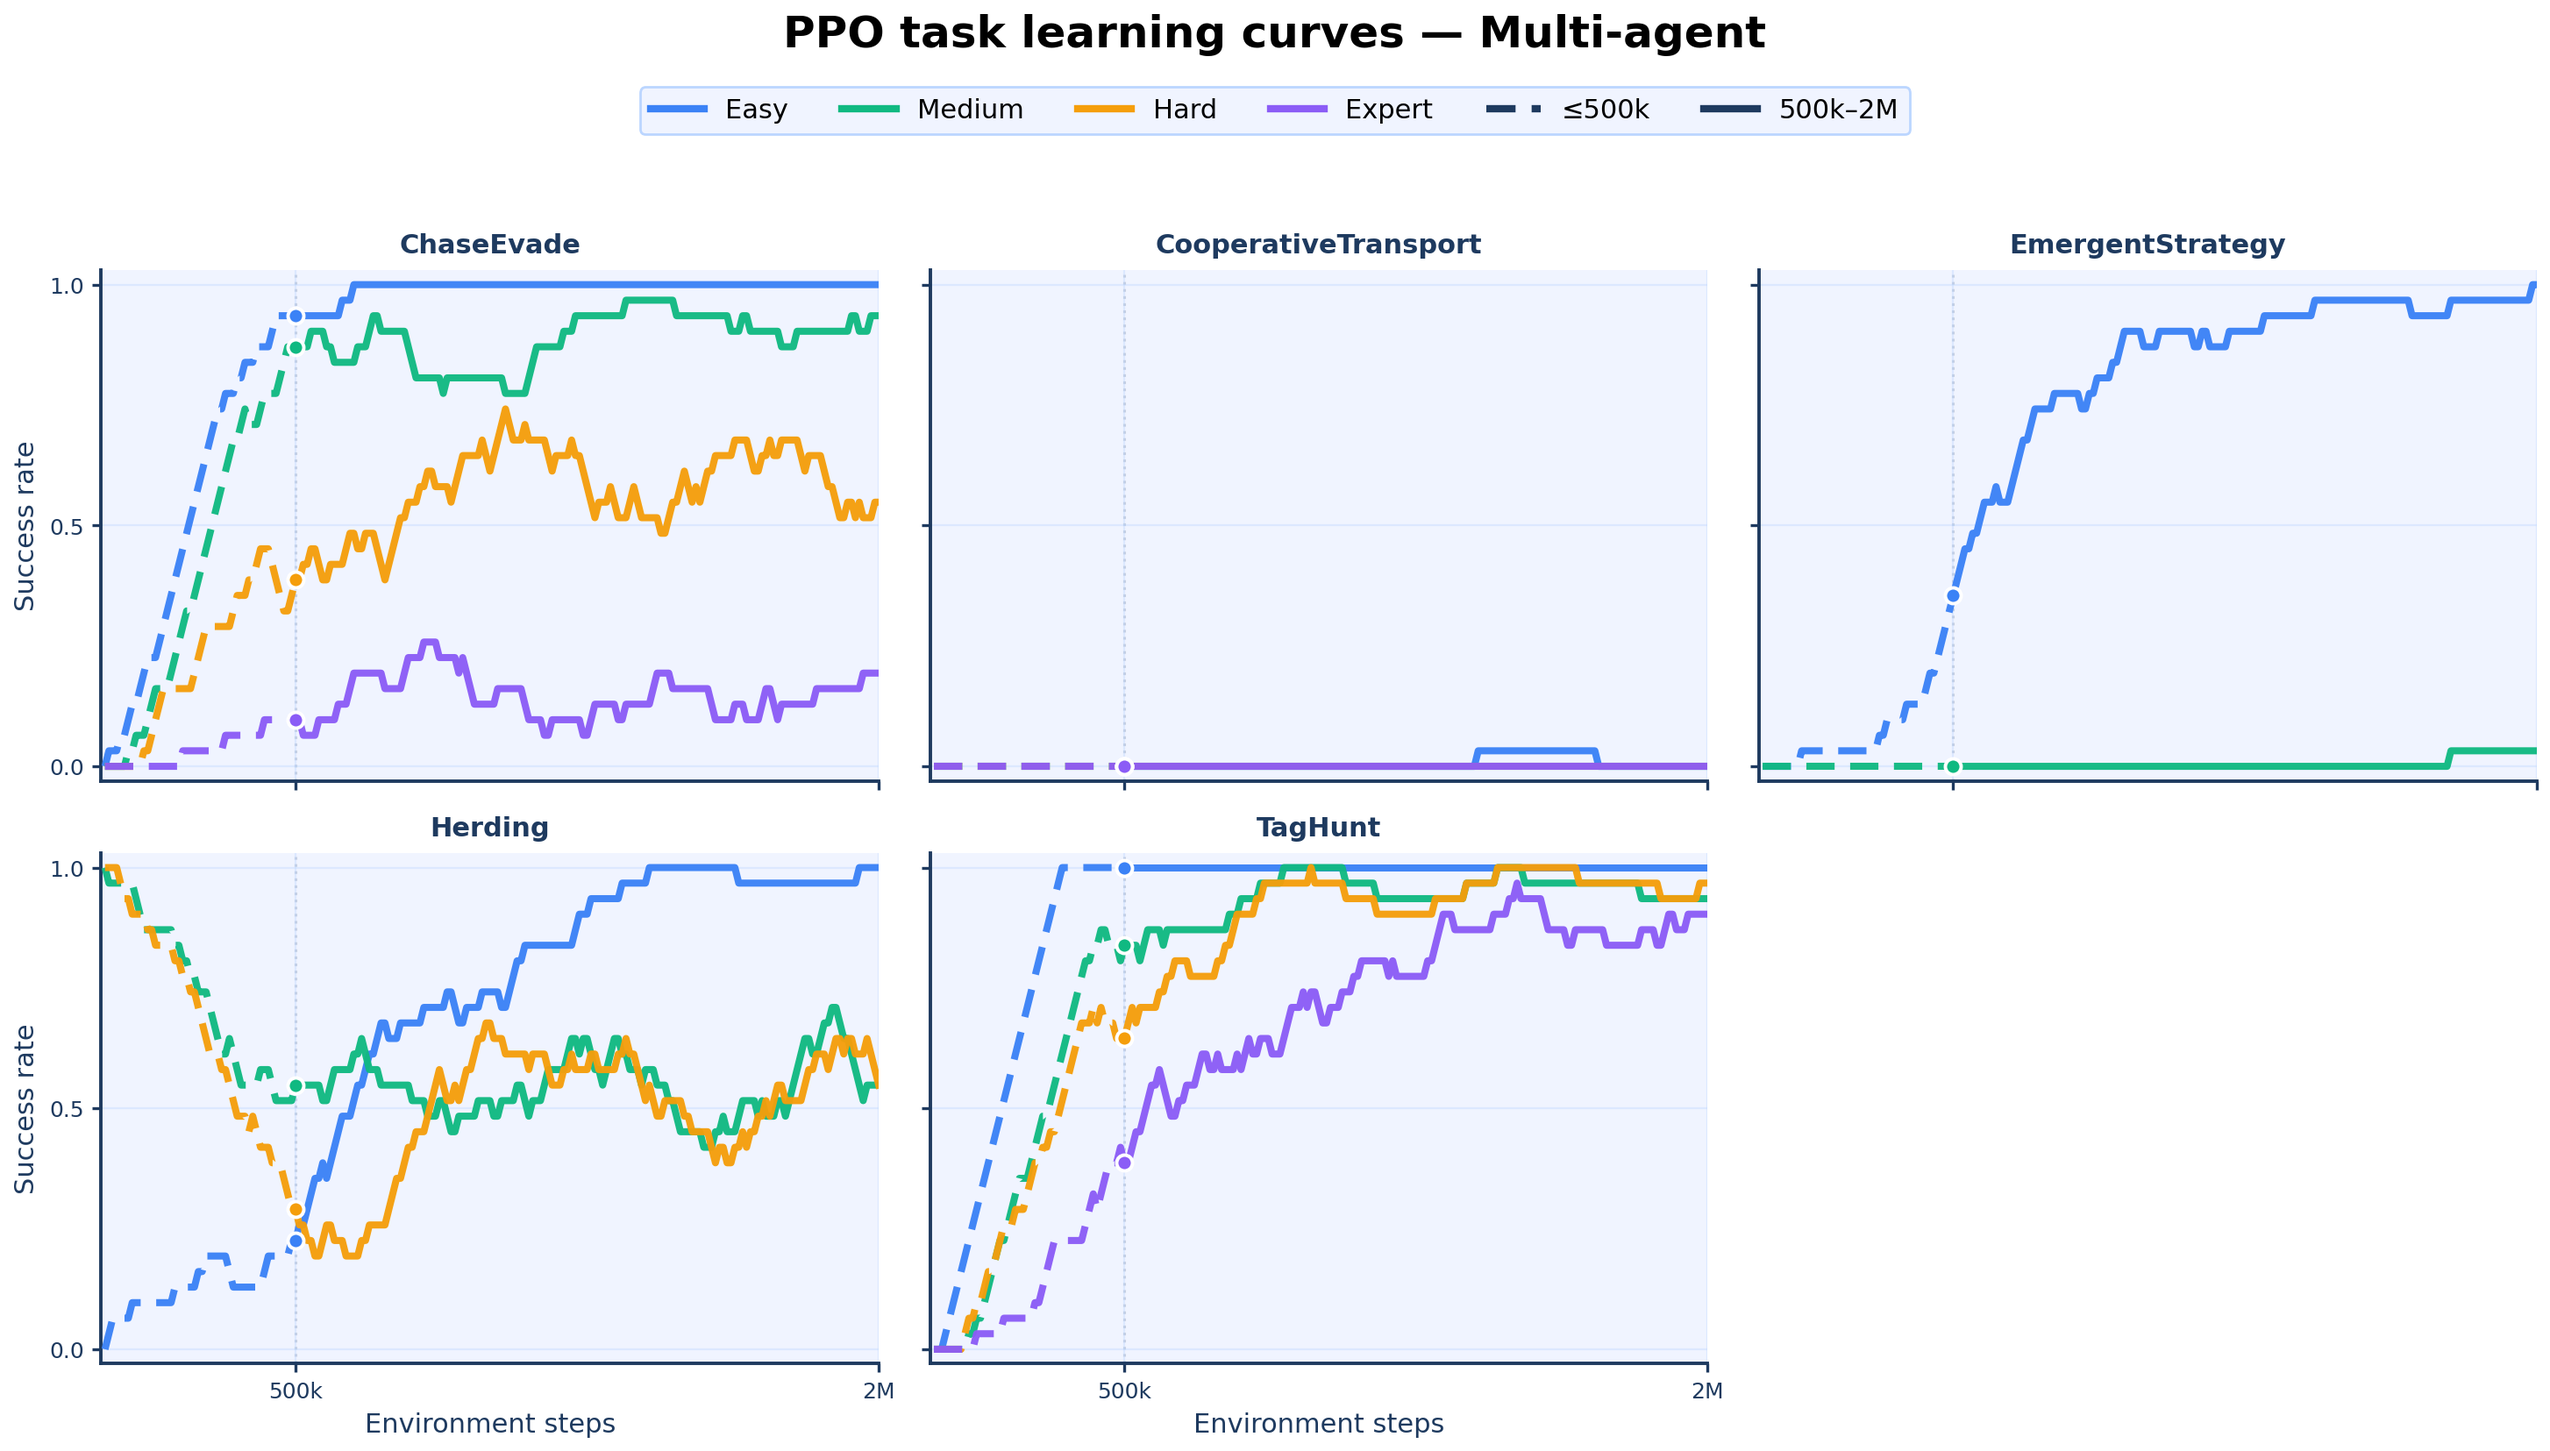
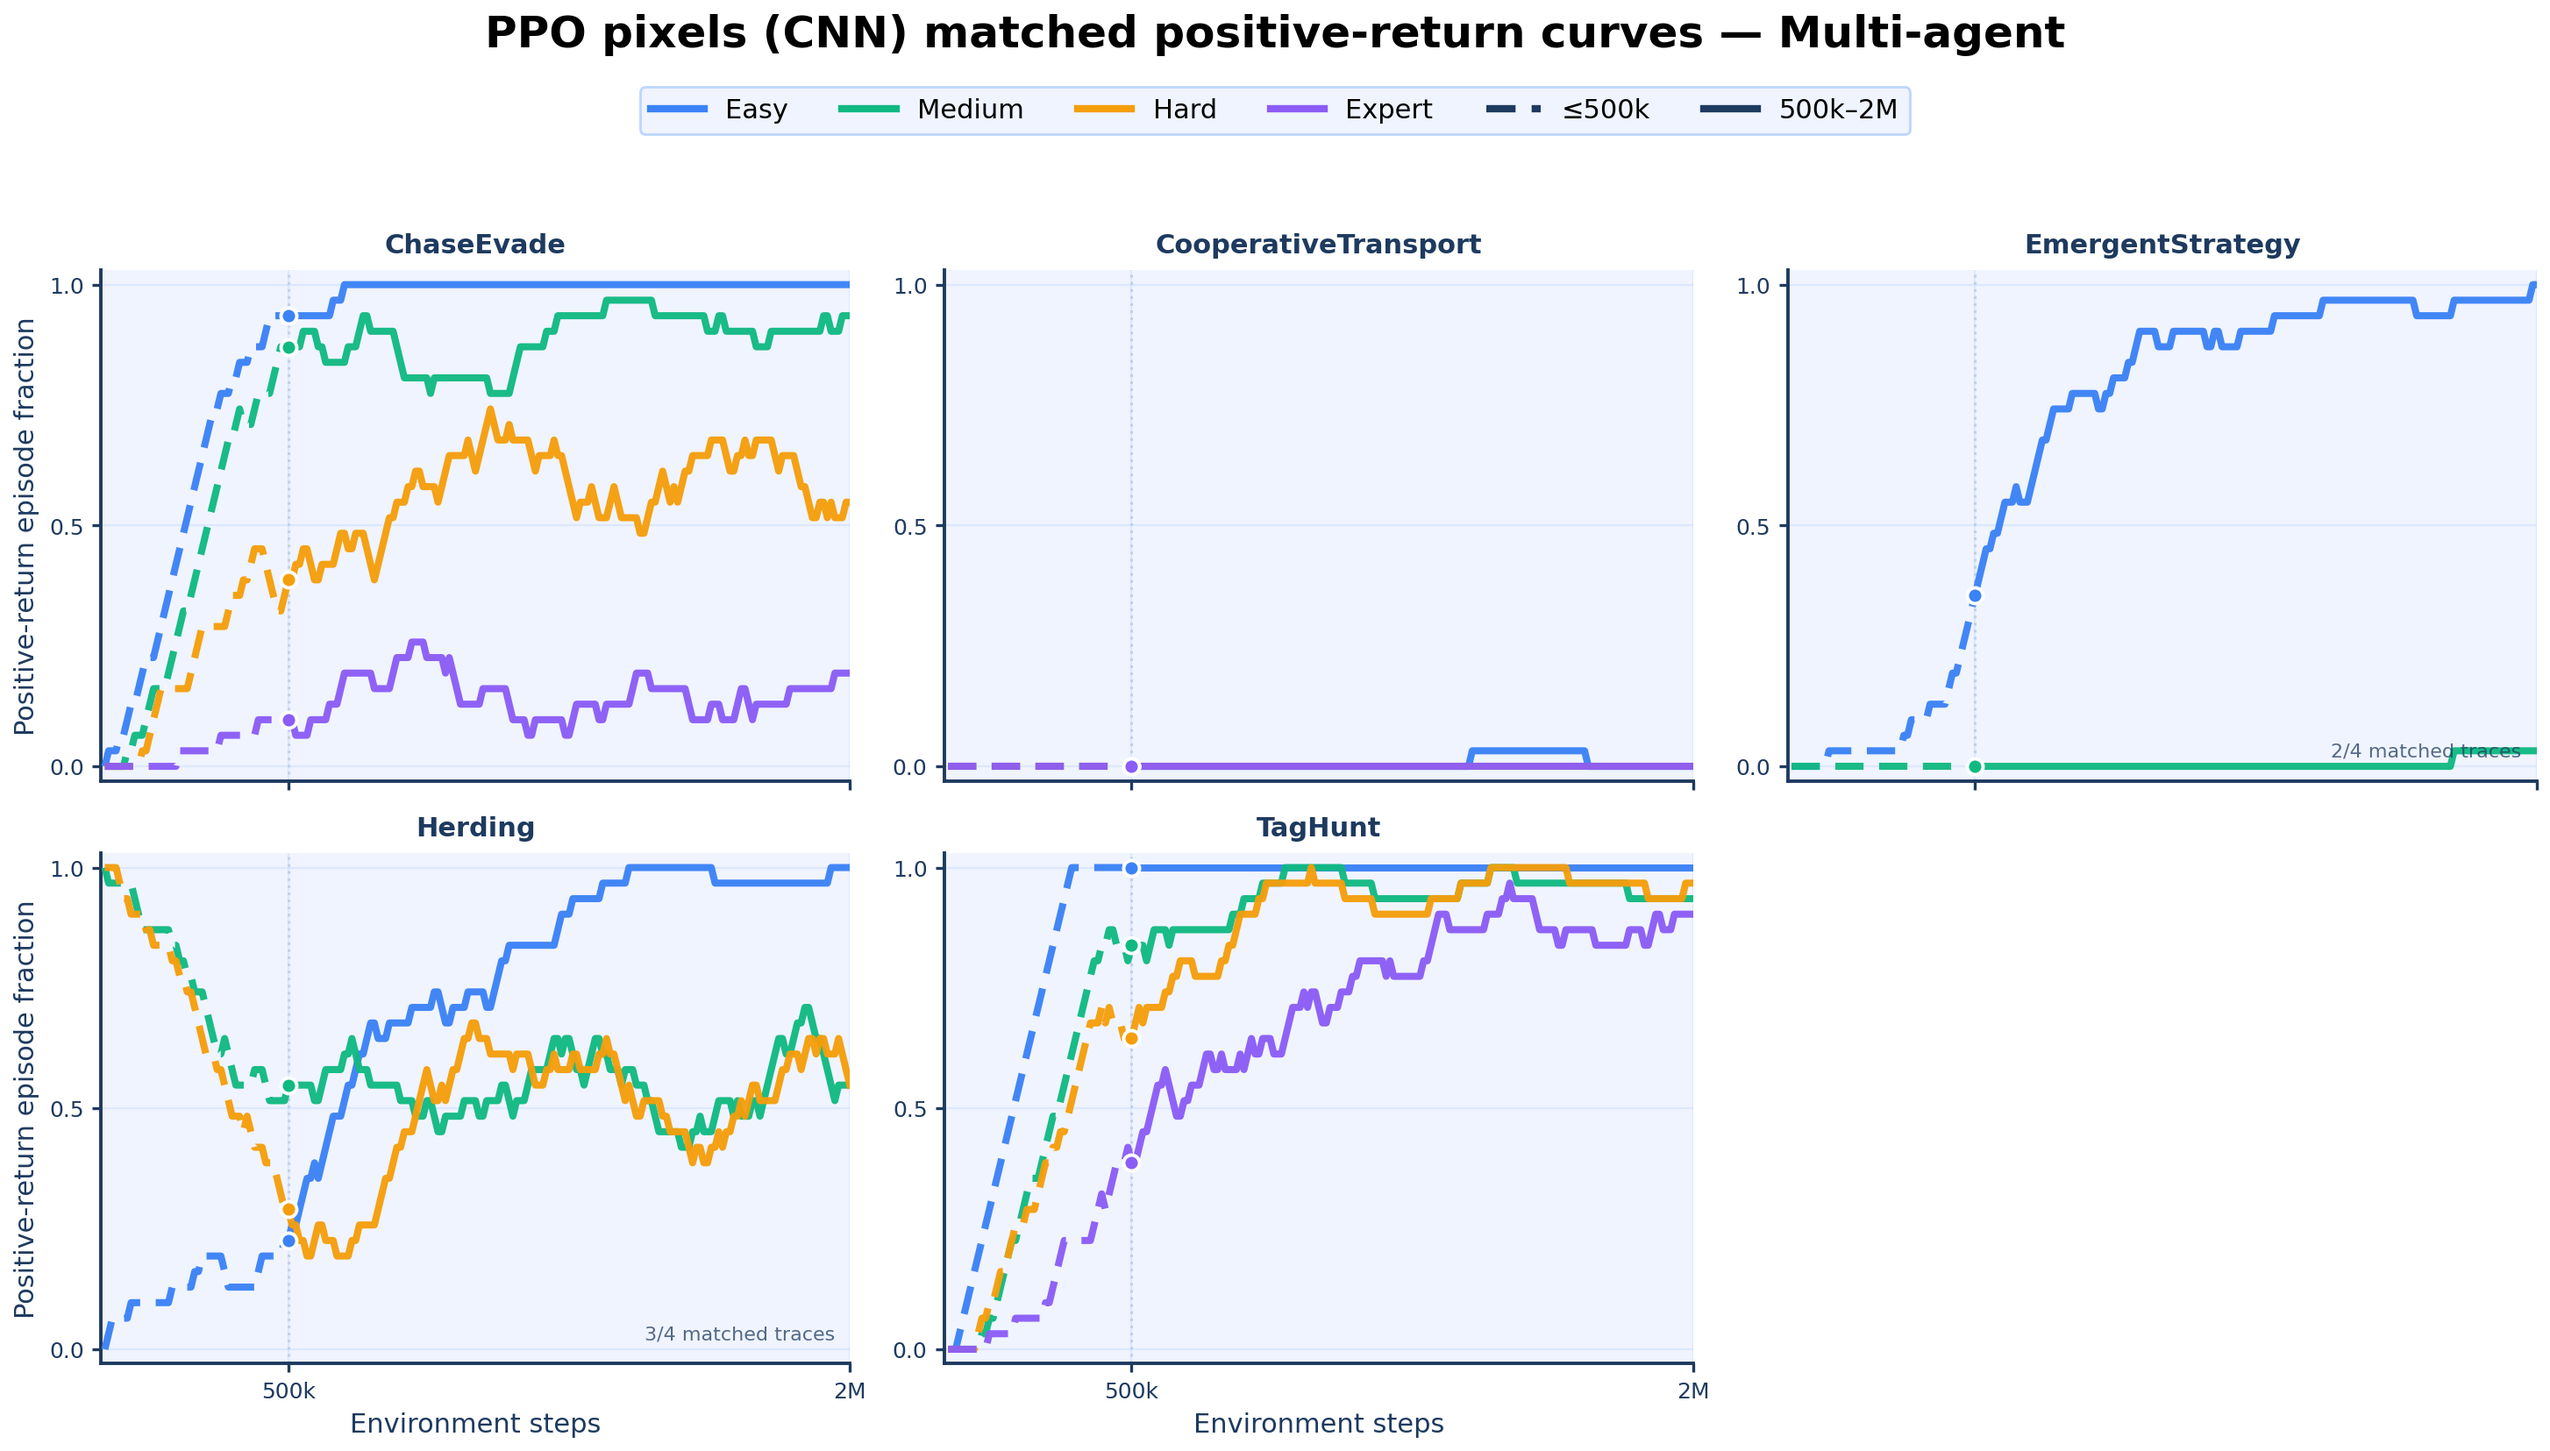
Add PPO observation ablation results

diff --git a/additional_results/README.md b/additional_results/README.md
@@ -1,56 +1,141 @@
 # Additional results
 
-This directory collects the figures and compact tables discussed in the author
-response: SFT training and evaluation, PPO learning curves, checkpoint
-aggregates, and difficulty-scaling results.
+This directory contains compact, machine-readable results and figures added for
+the author response: supervised fine-tuning, PPO observation ablations, PPO
+learning diagnostics, and difficulty scaling.
 
-## Files
+## PPO observation ablation
 
-- [SFT training and evaluation](sft_results_combined.png).
-- PPO task-grid learning curves:
+We repeat the single-task dense-reward PPO protocol with four synchronized
+observation paths. Each task-difficulty pair uses a separate policy. Task
+instances, reward, PPO optimization hyperparameters, 2M environment-step
+budget, evaluation cadence, checkpoint cadence, and deterministic 25-episode
+final-evaluation protocol are held fixed. Every input uses four consecutive
+observations.
+
+Only the observation-compatible input path changes:
+
+- pixels: 84x84 grayscale with a CNN;
+- exposed grid state: the returned `terrain`, `objects`, `agents`, and
+  `metadata` grid layers, flattened for an MLP;
+- ASCII: padded byte IDs with a learned byte embedding and 2D CNN;
+- natural language: padded byte IDs with a learned byte embedding and 1D CNN.
+
+The grid vector uses only visibility-filtered arrays returned by the
+`state_dict` observation. It excludes hidden internal cells, task
+configuration, annotations, and valid-action masks. The text encoders are
+trained from scratch and add no pretrained language knowledge. Because the
+compatible neural encoder necessarily changes, this comparison measures each
+declared observation-plus-encoder setup rather than pure information content
+in isolation.
+
+### Exact final success by category
+
+| Observation | Overall | Navigation | Planning | Reasoning | Memory | Generalization | Multi-agent |
+|---|---:|---:|---:|---:|---:|---:|---:|
+| PPO, pixels (CNN, dense, 2M) | .196 | .225 | .294 | .010 | .280 | .167 | .222 |
+| PPO, grid-state vector (MLP, dense, 2M) | .102 | .110 | .064 | .086 | .083 | .113 | .194 |
+| PPO, ASCII (byte CNN, dense, 2M) | .192 | .211 | .270 | .085 | .233 | .133 | .194 |
+| PPO, natural language (byte CNN, dense, 2M) | .188 | .199 | .303 | .034 | .250 | .120 | .204 |
+
+### Exact final success by difficulty
+
+| Observation | Easy | Medium | Hard | Expert |
+|---|---:|---:|---:|---:|
+| PPO, pixels (CNN, dense, 2M) | .486 | .176 | .078 | .044 |
+| PPO, grid-state vector (MLP, dense, 2M) | .183 | .121 | .070 | .036 |
+| PPO, ASCII (byte CNN, dense, 2M) | .394 | .211 | .107 | .056 |
+| PPO, natural language (byte CNN, dense, 2M) | .378 | .219 | .072 | .083 |
+
+The tables use cell-balanced final success. Every modality contains all 148
+task-difficulty cells. The three new modalities store the exact 25 boolean
+success flags, returns, and episode lengths for every cell; the historical
+pixel run stores the exact aggregate computed from `info["success"]`. Dense
+return is never converted into final success.
+
+Machine-readable sources:
+[category table](ppo_observation_ablation_by_category.csv) and
+[difficulty table](ppo_observation_ablation_by_difficulty.csv).
+
+The result is deliberately nuanced. Pixels, ASCII, and natural language are
+close overall, while the plain grid-vector MLP is weaker. Category rankings
+still change materially: natural language is strongest on the planning group,
+the grid vector and ASCII substantially improve over pixels on the reasoning
+group, and pixels remain strongest on navigation and memory. Observation and
+compatible encoder therefore matter; the broader cross-paradigm table should
+not be read as an input-independent ranking.
+
+## PPO learning diagnostics
+
+The periodic evaluator retained episode returns but not exact success flags.
+Consequently, the curves and checkpoint table below report the **positive-return
+episode fraction**, not exact success. They use the exact intersection of 126
+available task-difficulty traces for all four modalities, a 31-point trailing
+mean, and a fixed 0–1 vertical scale.
+
+| Observation | 500k | 1M | 1.5M | 2M |
+|---|---:|---:|---:|---:|
+| PPO, pixels (CNN, dense, 2M) | .243 | .329 | .377 | .393 |
+| PPO, grid-state vector (MLP, dense, 2M) | .193 | .208 | .214 | .220 |
+| PPO, ASCII (byte CNN, dense, 2M) | .162 | .303 | .336 | .369 |
+| PPO, natural language (byte CNN, dense, 2M) | .269 | .342 | .364 | .364 |
+
+The checkpoint average follows the original pixel convention: difficulties
+available for a task are averaged first, then the 37 task means are averaged
+equally. Source tables:
+[compact checkpoints](ppo_observation_positive_return_by_checkpoint.csv) and
+[difficulty-detail checkpoints](ppo_observation_positive_return_checkpoint_summary.csv).
+
+Matched category-curve grids:
+
+- Pixels:
   [navigation](ppo_navigation_task_learning_curves.png),
   [planning](ppo_planning_task_learning_curves.png),
   [reasoning](ppo_reasoning_task_learning_curves.png),
   [memory](ppo_memory_task_learning_curves.png),
   [generalization](ppo_generalization_task_learning_curves.png), and
   [multi-agent](ppo_multi_agent_task_learning_curves.png).
-- Source tables:
-  [SFT evaluation](sft_evaluation_summary.csv),
-  [PPO checkpoints](ppo_checkpoint_summary.csv), and
-  [difficulty scaling](difficulty_scaling_summary.csv).
+- Grid-state vector:
+  [navigation](ppo_vector_navigation_matched_task_positive_return_curves.png),
+  [planning](ppo_vector_planning_matched_task_positive_return_curves.png),
+  [reasoning](ppo_vector_reasoning_matched_task_positive_return_curves.png),
+  [memory](ppo_vector_memory_matched_task_positive_return_curves.png),
+  [generalization](ppo_vector_generalization_matched_task_positive_return_curves.png), and
+  [multi-agent](ppo_vector_multi_agent_matched_task_positive_return_curves.png).
+- ASCII:
+  [navigation](ppo_ascii_navigation_matched_task_positive_return_curves.png),
+  [planning](ppo_ascii_planning_matched_task_positive_return_curves.png),
+  [reasoning](ppo_ascii_reasoning_matched_task_positive_return_curves.png),
+  [memory](ppo_ascii_memory_matched_task_positive_return_curves.png),
+  [generalization](ppo_ascii_generalization_matched_task_positive_return_curves.png), and
+  [multi-agent](ppo_ascii_multi_agent_matched_task_positive_return_curves.png).
+- Natural language:
+  [navigation](ppo_language_navigation_matched_task_positive_return_curves.png),
+  [planning](ppo_language_planning_matched_task_positive_return_curves.png),
+  [reasoning](ppo_language_reasoning_matched_task_positive_return_curves.png),
+  [memory](ppo_language_memory_matched_task_positive_return_curves.png),
+  [generalization](ppo_language_generalization_matched_task_positive_return_curves.png), and
+  [multi-agent](ppo_language_multi_agent_matched_task_positive_return_curves.png).
 
-## Compact tables
-
-### SFT evaluation
+## SFT evaluation
 
 | Prompting method | Base | SFT-120k | SFT-250k |
 |---|---:|---:|---:|
 | Direct action | .0232 | .3544 | **.4466** |
 | Reason before acting | .2280 | .3489 | **.4436** |
 
-### PPO saved training traces
+See the [combined SFT figure](sft_results_combined.png) and
+[source table](sft_evaluation_summary.csv).
 
-| Checkpoint | Easy | Medium | Hard | Expert | Average | Gain since prior |
-|---|---:|---:|---:|---:|---:|---:|
-| 500k | .441 | .217 | .167 | .141 | .243 | — |
-| 1M | .573 | .282 | .221 | .181 | .329 | +.086 |
-| 1.5M | .656 | .313 | .243 | .209 | .377 | +.048 |
-| 2M | .679 | .339 | .239 | .209 | .393 | +.016 |
-
-The curves evaluate the same fixed test episode every 10k training steps and
-use a 31-point trailing average for smoothing. Lines are dashed before 500k,
-marked at 500k, and solid thereafter. The final table column is the change in
-the overall average since the previous checkpoint. It shrinks from +.086 to
-+.048 to +.016, so the final 1.5M→2M interval is the smallest. Final leaderboard
-evaluations use all official seeds. The six category-level learning-curve
-figures are available directly in this directory.
-
-### Difficulty scaling
+## Difficulty scaling
 
 | Agent | Easy | Medium | Hard | Expert | Easy→Expert drop |
 |---|---:|---:|---:|---:|---:|
 | GPT-5 mini | .494 | .332 | .223 | .189 | 61.8% |
-| PPO dense 2M | .606 | .277 | .160 | .104 | 82.8% |
+| PPO dense 2M | .486 | .176 | .078 | .044 | 90.9% |
 | Qwen3.5-4B | .445 | .259 | .110 | .098 | 78.0% |
 | SFT-250k | .647 | .467 | .369 | .303 | 53.1% |
-| **Average across agents** | **.548** | **.334** | **.215** | **.173** | **68.3%** |
+| **Average across agents** | **.518** | **.309** | **.195** | **.159** | **69.4%** |
+
+These PPO entries use the same exact final-success aggregate as the observation
+ablation. See the [source table](difficulty_scaling_summary.csv).
